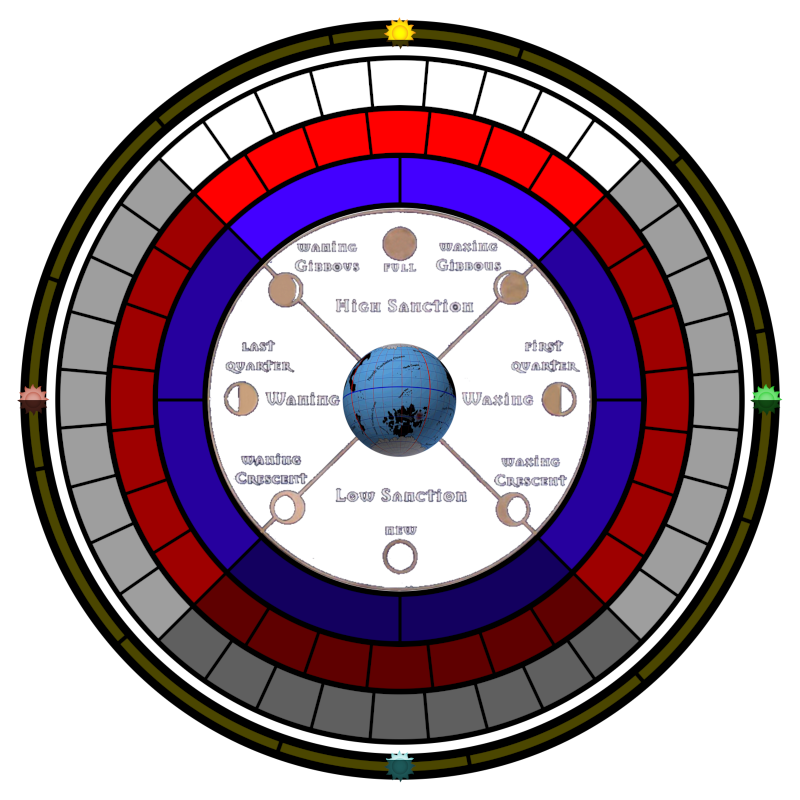
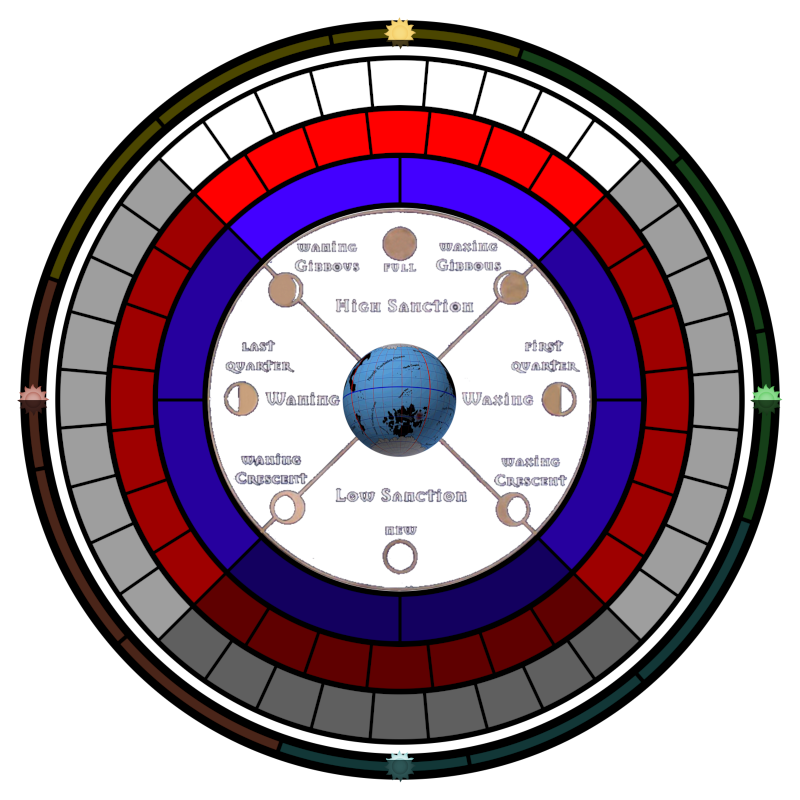
Adding keyboard support, and a few colors

diff --git a/HtmlKrynnEphemeris.html b/HtmlKrynnEphemeris.html
@@ -4,31 +4,43 @@
 <meta charset="utf-8" />
 <meta http-equiv="Content-Style-Type" content="text/css" />
 <meta http-equiv="Content-Script-Type" content="text/javascript" />
-<title>Krynn Ephemeris v0.8</title>
+<title>Krynn Ephemeris v0.9</title>
 <script src="./HtmlKrynnEphemeris.js"></script>
 <style>@import url("HtmlKrynnEphemeris.css");</style>
 </head>
 <body onload="do_onload()">
 
-<h1>Krynn Ephemeris (v0.8)</h1>
+<h1>Krynn Ephemeris (v0.9)</h1>
 
 <!--<div>🌑🌒🌓🌔🌕🌖🌗🌘</div>-->
 
 <div id="ID_map"><canvas id="ID_canvas" width="800" height="800"></canvas></div>
 
 <div>
-
+<center>
 <button id="ID_setTaladasOrClassic" type="button" onclick="setTaladasOrClassic()">Set Taladas</button>
-<button id="ID_previousDay" type="button" onclick="previous_day()">&lt;</button>
-<button id="ID_nextDay" type="button" onclick="next_day()">&gt;</button>
-
-<br />
+<span class="cssButtonGroup">
+<button id="ID_previousDay" type="button" onclick="previous_day()" title="Press LEFT button for previous day">&lt;</button>
+Day
+<button id="ID_nextDay" type="button" onclick="next_day()" title="Press RIGHT button for next day">&gt;</button>
+</span>
+<span class="cssButtonGroup">
+<button id="ID_previousMonth" type="button" onclick="previous_month()" title="Press CTRL+LEFT button for previous month">&lt;</button>
+Month
+<button id="ID_nextMonth" type="button" onclick="next_month()" title="Press CTRL+RIGHT button for next month">&gt;</button>
+</span>
+<span class="cssButtonGroup">
+<button id="ID_previousYear" type="button" onclick="previous_year()" title="Press SHIFT+LEFT button for previous year">&lt;</button>
+Year
+<button id="ID_nextYear" type="button" onclick="next_year()" title="Press SHIFT+RIGHT button for next year">&gt;</button>
+</span>
+</center>
 
 Epoch Day: <input id="ID_epochDay" type="number" step="1" size="8" value="0" onchange="on_change_epoch_day()" onkeyup="on_change_epoch_day()" />
 Year: <input id="ID_calendaryYear" type="number" step="1" size="5" value="0" onchange="on_change_calendar_date()" onkeyup="on_change_calendar_date()" />
 Month: <input id="ID_calendaryMonth" type="number" step="1" size="4" value="0" min="0" max="11" onchange="on_change_calendar_date()" onkeyup="on_change_calendar_date()" />
 Day: <input id="ID_calendaryDay" type="number" step="1" size="4" value="0" min="0" max="27" onchange="on_change_calendar_date()" onkeyup="on_change_calendar_date()" />
-Date: <input id="ID_calendaryDate" type="text" size="60" value="" />
+Date: <input id="ID_calendaryDate" type="text" size="60" value="" readonly="readonly" />
 
 <br />
 
@@ -53,6 +65,26 @@ function previous_day()
 function next_day()
 {
    increment_day(1);
+}
+
+function previous_month()
+{
+   increment_day(-28);
+}
+
+function next_month()
+{
+   increment_day(28);
+}
+
+function previous_year()
+{
+   increment_day(-336);
+}
+
+function next_year()
+{
+   increment_day(336);
 }
 
 function increment_day(p_value)
@@ -164,6 +196,54 @@ function do_onload()
    on_change_epoch_day();
    redraw_all();
 }
+
+
+
+
+document.addEventListener('keydown',
+   (event) => {
+      const keyName = event.key;
+
+      if(keyName === 'ArrowRight')
+      {
+         if(event.shiftKey) next_year();
+         else if(event.ctrlKey) next_month();
+         else next_day();
+         return;
+      }
+      else if(keyName === 'ArrowLeft')
+      {
+         if(event.shiftKey) previous_year();
+         else if(event.ctrlKey) previous_month();
+         else previous_day();
+         return;
+      }
+
+      return;
+
+/*
+      if (keyName === 'Control')
+      {
+         // do not alert when only Control key is pressed.
+         return;
+      }
+
+      if (event.ctrlKey)
+      {
+         // Even though event.key is not 'Control' (e.g., 'a' is pressed),
+         // event.ctrlKey may be true if Ctrl key is pressed at the same time.
+         alert(`Combination of ctrlKey + ${keyName}`);
+      }
+      else
+      {
+         alert(`Key pressed ${keyName}`);
+      }
+*/
+   }
+, false);
+
+
+
 </script>
 
 <style>

diff --git a/HtmlKrynnEphemeris.css b/HtmlKrynnEphemeris.css
@@ -64,3 +64,4 @@ table.cssTable td.cssCenter { text-align : center ; }
 table.cssTable td.cssRight { text-align : right ; }
 table.cssTable td.cssJustify { text-align : justify ; }
 
+span.cssButtonGroup { padding : 0 3em; }
